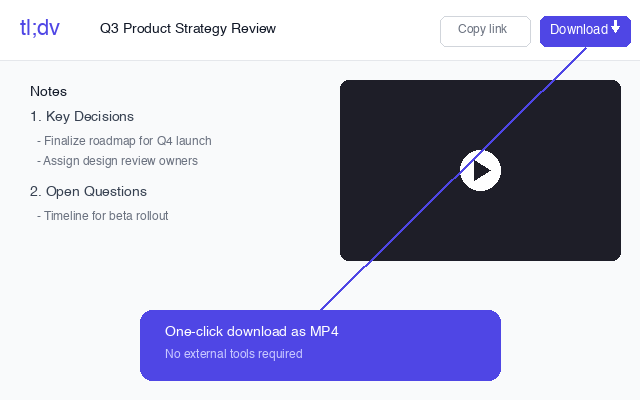
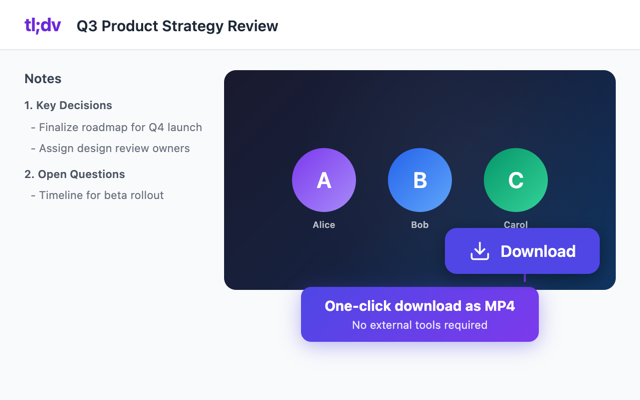
feat: fixed-position download button, no DOM dependency
Replace fragile "Copy link" button lookup with a fixed-position
floating button on any meeting page. Button is larger and always
visible regardless of tldv UI changes. Updated store screenshot.

diff --git a/src/content.ts b/src/content.ts
@@ -48,44 +48,14 @@ function createDownloadButton(): HTMLButtonElement {
   return btn;
 }
 
-function findHeaderActionsRow(): HTMLElement | null {
-  // Find the "Copy link" button, then walk up to the header actions row.
-  // tldv DOM: button > div > div.flex.items-stretch > div.flex.items-center.gap-2
-  //           > div.flex.items-center.justify-center > div.flex.flex-row.justify-end
-  // We want the top-level flex row that contains the language selector + copy link.
-  const allButtons = document.querySelectorAll("button");
-  for (const btn of allButtons) {
-    if (btn.textContent?.trim().includes("Copy link")) {
-      // Walk up to the flex row with justify-end (header actions container)
-      let el: HTMLElement | null = btn;
-      for (let i = 0; i < 8 && el; i++) {
-        el = el.parentElement;
-        if (el?.className?.includes("justify-end")) return el;
-      }
-      // Fallback: use the Copy link button's grandparent
-      return btn.parentElement?.parentElement?.parentElement as HTMLElement | null;
-    }
-  }
-  return null;
-}
-
 function injectButton(): void {
-  // Don't inject if already present
   if (document.getElementById(BUTTON_ID)) return;
-
-  // Only inject on meeting pages
   if (!isMeetingPage()) return;
 
-  const headerRow = findHeaderActionsRow();
-  if (headerRow) {
-    const downloadBtn = createDownloadButton();
-    headerRow.appendChild(downloadBtn);
-    console.log("[dl-tldv] Download button injected in header actions row");
-  } else {
-    console.log(
-      "[dl-tldv] Copy link button not found yet, will retry via observer",
-    );
-  }
+  const downloadBtn = createDownloadButton();
+  downloadBtn.classList.add("dl-tldv-btn--fixed");
+  document.body.appendChild(downloadBtn);
+  console.log("[dl-tldv] Download button injected (fixed position)");
 }
 
 function removeButton(): void {
@@ -105,26 +75,9 @@ function init(): void {
     return;
   }
 
-  // Try immediate injection
   injectButton();
 
-  // Watch for DOM changes (tldv is a SPA, elements load async)
-  const observer = new MutationObserver(() => {
-    if (isMeetingPage()) {
-      if (!document.getElementById(BUTTON_ID)) {
-        injectButton();
-      }
-    } else {
-      removeButton();
-    }
-  });
-
-  observer.observe(document.body, {
-    childList: true,
-    subtree: true,
-  });
-
-  // Also handle SPA navigation via URL changes
+  // Handle SPA navigation via URL changes
   let lastUrl = window.location.href;
   const urlObserver = new MutationObserver(() => {
     if (window.location.href !== lastUrl) {

diff --git a/src/styles.css b/src/styles.css
@@ -1,17 +1,17 @@
 .dl-tldv-btn {
   display: inline-flex;
   align-items: center;
-  gap: 6px;
-  padding: 6px 14px;
+  gap: 10px;
+  padding: 12px 24px;
   border: none;
-  border-radius: 8px;
+  border-radius: 12px;
   background: #4F46E5;
   color: #fff;
-  font-size: 14px;
-  font-weight: 500;
+  font-size: 16px;
+  font-weight: 600;
   font-family: inherit;
   cursor: pointer;
-  transition: background 0.15s ease;
+  transition: background 0.15s ease, transform 0.15s ease;
   white-space: nowrap;
   line-height: 1.4;
 }
@@ -26,7 +26,19 @@
 }
 
 .dl-tldv-btn svg {
-  width: 16px;
-  height: 16px;
+  width: 22px;
+  height: 22px;
   flex-shrink: 0;
+}
+
+.dl-tldv-btn--fixed {
+  position: fixed;
+  bottom: 28px;
+  right: 28px;
+  z-index: 2147483647;
+  box-shadow: 0 4px 16px rgba(0, 0, 0, 0.35);
+}
+
+.dl-tldv-btn--fixed:hover {
+  transform: scale(1.05);
 }
